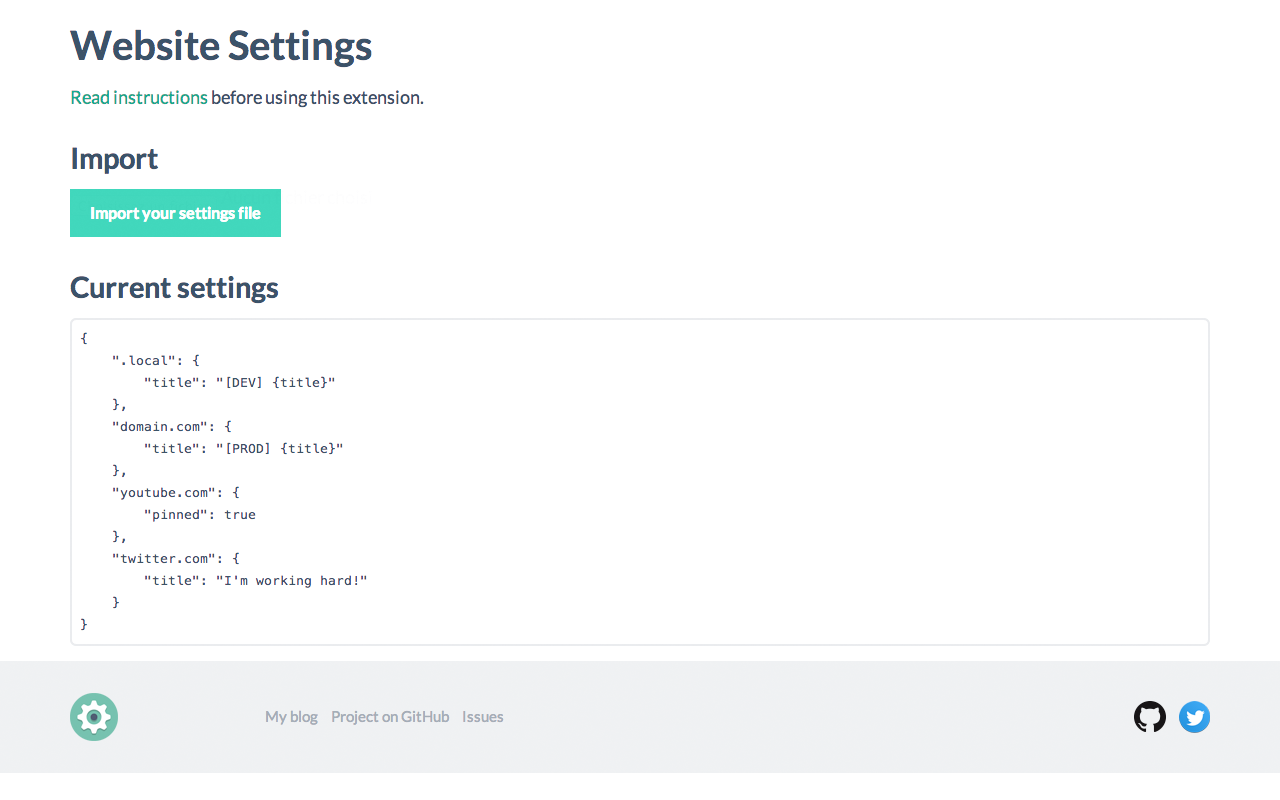
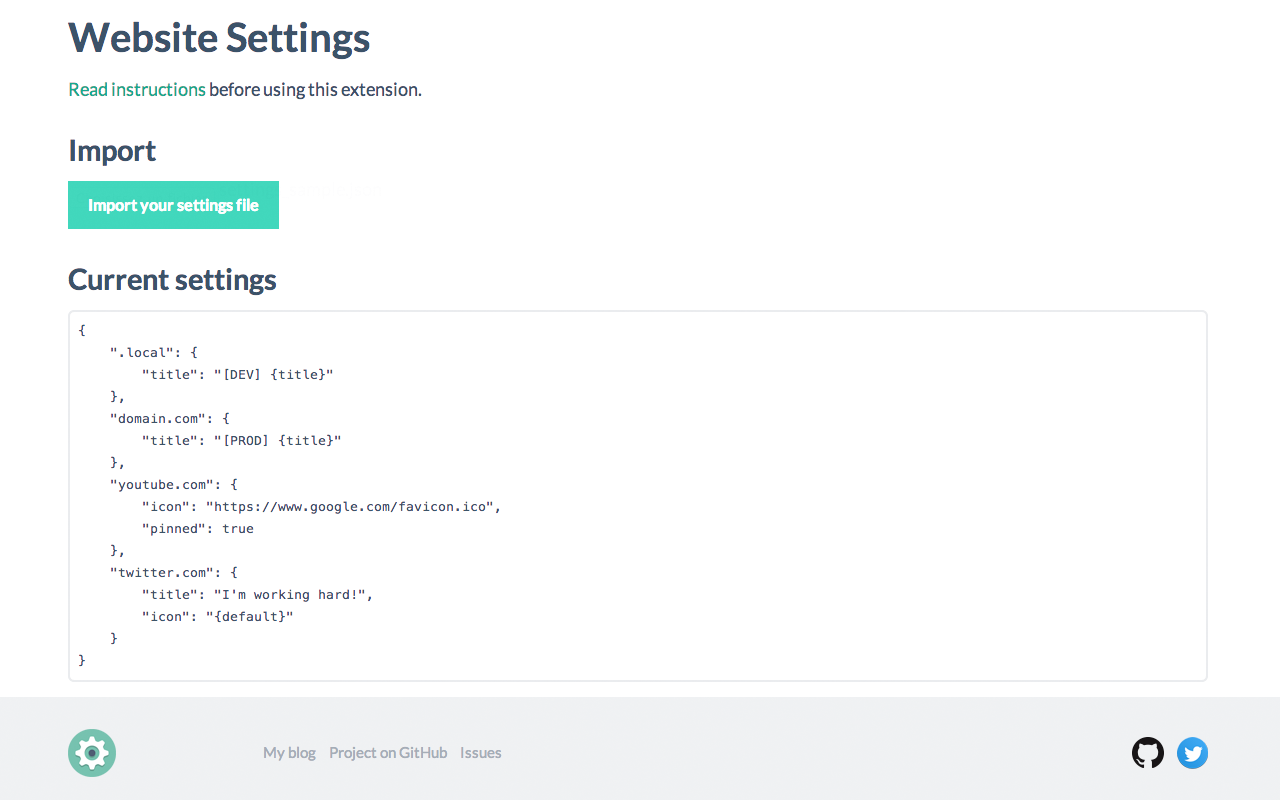
updated screenshots

diff --git a/README.md b/README.md
@@ -33,8 +33,8 @@ To use this extension, you must create a JSON file which contains your settings.
 }
 ```
 
-| Propery       | Tag               | Meaning                                                   |
-| ------------- |:-----------------:| ---------------------------------------------------------:|
+| Property      | Tag               | Meaning                                                   |
+| :-----------: | :---------------: | :-------------------------------------------------------: |
 | title         | ```{title}```     | Website title, use it if you need to add a prefix/suffix  |
 | icon          | ```{default}```   | Default Chrome icon (white paper)                         |
 
